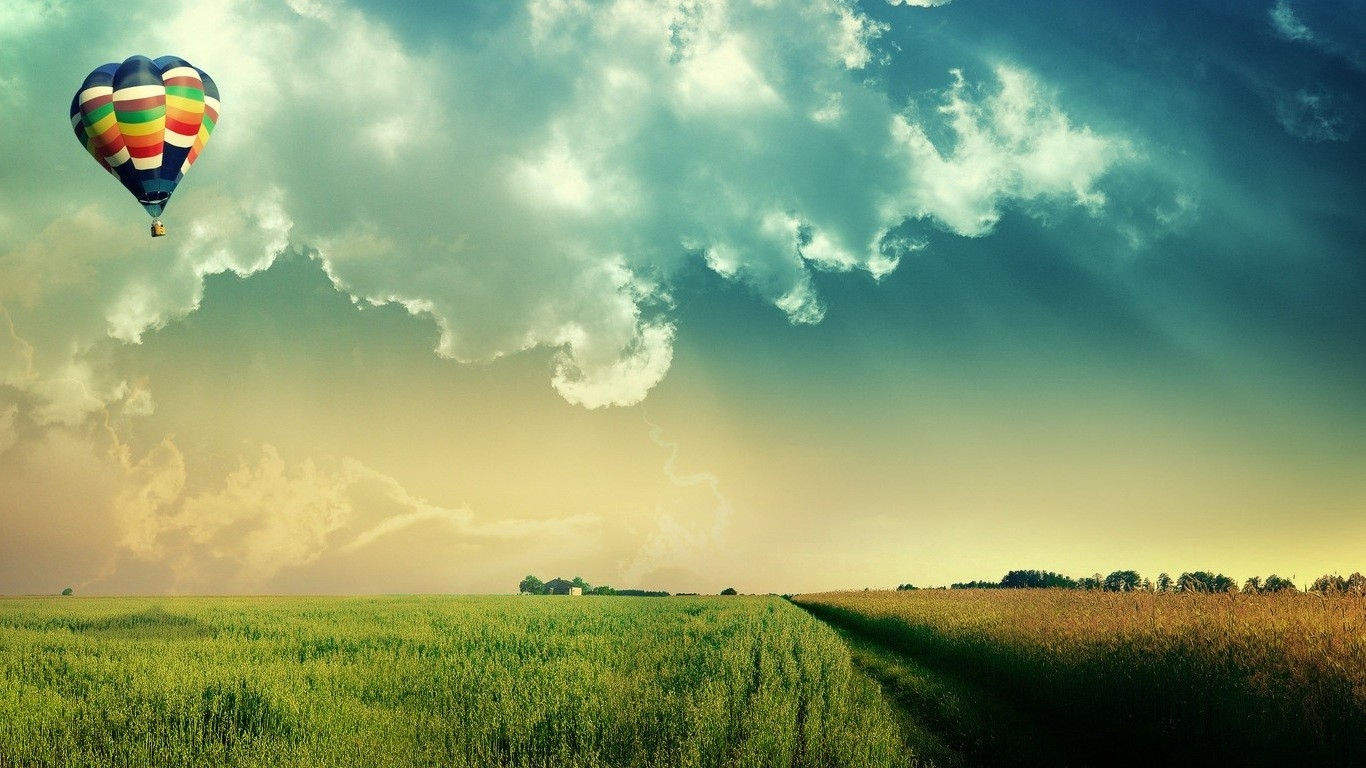
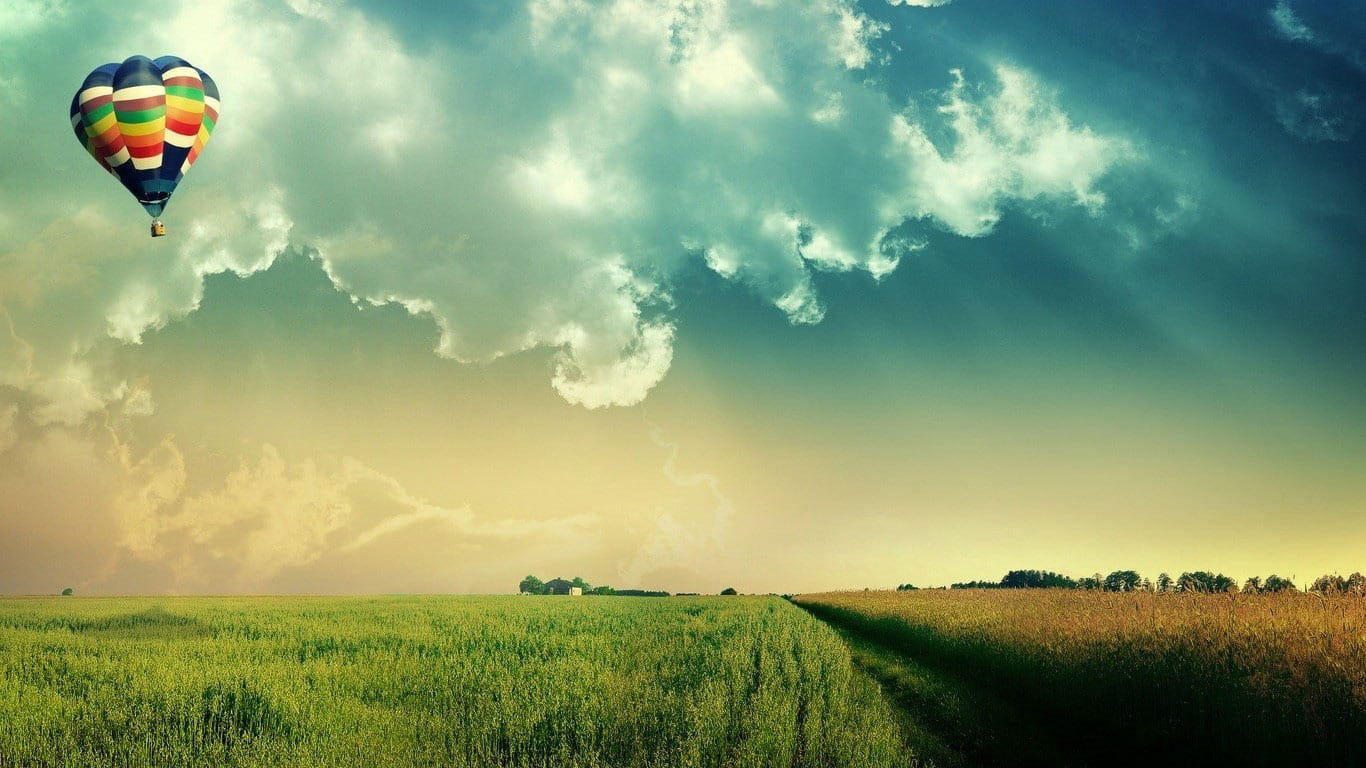
reduce images size

diff --git a/index.html b/index.html
@@ -156,9 +156,12 @@
 								class="fa fa-linkedin "></a></li>
 						<li><a href="https://www.facebook.com/roni6ch"
 								target="_blank" class="fa fa-facebook"></a></li>
+									<li><a href="https://gitlab.com/users/Roni691986/projects" target="_blank"
+								class="fa fa-code-fork"></a></li>
 						<li><a href="tel:+972502560005" class="fa fa-phone"></a></li>
 						<li><a href="#contactForm" target="_blank"
 								class="fa fa-envelope-o"></a></li>
+								
 					</ul>
 
 
@@ -342,7 +345,7 @@
 								</a>
 							</div>
 							
-							<!-- biungo and beyond -->
+							<!-- bingo and beyond -->
 							<div class="carousel-item  white-text">
 								<a class="carouselImageWrapper bingoandbeyond"
 									href="https://www.bingoandbeyond.com/" target="_blank">
@@ -353,6 +356,17 @@
 									</div>
 								</a>
 							</div>
+							<!-- Spontanious -->
+							<div class="carousel-item  white-text">
+								<a class="carouselImageWrapper spontanious"
+									href="https://ronichabra.000webhostapp.com" target="_blank">
+									<div class="carouselInfo hide-on-med-and-down">
+										<h2>Spontanious</h2>
+										<p class="white-text">Fly Now (React+Redux)</p>
+									</div>
+								</a>
+							</div>
+							
 							
 							
 

diff --git a/css/style.css b/css/style.css
@@ -184,29 +184,32 @@ h1, h2 {
 }
 
 .cvmatcher {
-	background: url(../images/mobile/cvmatcher.png) top center no-repeat;
+	background: url(../images/mobile/cvmatcher.jpg) top center no-repeat;
 }
 
 .cart {
-	background: url(../images/mobile/cart.png) top center no-repeat;
+	background: url(../images/mobile/cart.jpg) top center no-repeat;
 }
 
 .lovehearts {
-	background: url(../images/mobile/lovehearts.png) top center no-repeat;
+	background: url(../images/mobile/lovehearts.jpg) top center no-repeat;
 }
 
 .valentines {
-	background: url(../images/mobile/valentines.png) top center no-repeat;
+	background: url(../images/mobile/valentines.jpg) top center no-repeat;
 }
 
 .barber {
-	background: url(../images/mobile/barber.png) top center no-repeat;
+	background: url(../images/mobile/barber.jpg) top center no-repeat;
 }
 .mapmap{
-		background: url(../images/mobile/mapmap.png) top center no-repeat;
+		background: url(../images/mobile/mapmap.jpg) top center no-repeat;
 }
 .bingoandbeyond{
-		background: url(../images/mobile/beyond.png) top center no-repeat;
+		background: url(../images/mobile/beyond.jpg) top center no-repeat;
+}
+.spontanious{
+	background: url(../images/mobile/spontanious.jpg) top center no-repeat;
 }
 
 .carousel-item:hover .carouselInfo {
